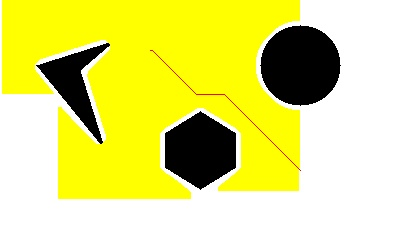
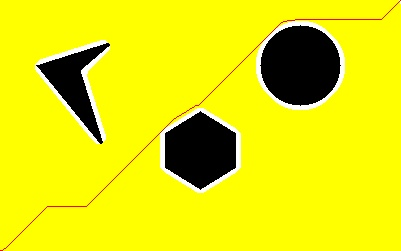
final upload

diff --git a/dijkstra.py b/dijkstra.py
@@ -1,6 +1,6 @@
 import numpy as np
 import cv2
-import glob
+import math
 
 class Node:
   def __init__(self,data,parent,cost):
@@ -14,7 +14,7 @@ def get_line(A,B):
   c = y1 - m * x1
   return m,c
 
-def check_for_obstacle_1(points,point):
+def check_for_obstacle_1(points,point): ## returns if the coordinate is within quadrilateral obstacle
   count = 0
   i = 0
   x,y = point[0],point[1]
@@ -53,7 +53,7 @@ def check_for_obstacle_1(points,point):
   else:
     return True
 
-def check_for_obstacle_2(points,point):
+def check_for_obstacle_2(points,point):   ## returns if the coordinate is within hexagonal obstacle
   count = 0
   x,y = point[0],point[1]
   # m1,c1 = get_line(points[0],points[1]) // This doesn't work since division by zero is impossible.
@@ -79,7 +79,7 @@ def check_for_obstacle_2(points,point):
   else:
     return None
 
-def check_for_obstacle_3(point):
+def check_for_obstacle_3(point):    ## returns if the coordinate is within circular obstacle
   x,y = point[0],point[1]
   a = ((x-300)**2) + ((y-185)**2) - (40*40)
   if (a <= 0):
@@ -102,6 +102,8 @@ def get_obstacle_coord(obstacle_1,obstacle_2):
 
   return obs_coord_list,mat_img,mat
 
+  ############## Action Sets ##################
+
 def action_Up(curr_node,matrix):
 
   x,y = curr_node.Node_state[0],curr_node.Node_state[1]
@@ -114,7 +116,7 @@ def action_Up(curr_node,matrix):
       newNode = Node([x_new,y_new],curr_node,cost)
       return newNode
     else:
-      print("Obstacle found at: ",x_new,y_new)
+      # print("Obstacle found at: ",x_new,y_new)
       return False
   else:
     return False
@@ -130,7 +132,7 @@ def action_Down(curr_node,matrix):
       newNode = Node([x_new,y_new],curr_node,cost)
       return newNode
     else:
-      print("Obstacle found at: ",x_new,y_new)
+      # print("Obstacle found at: ",x_new,y_new)
       return False
   else:
     return False
@@ -146,7 +148,7 @@ def action_Right(curr_node,matrix):
       newNode = Node([x_new,y_new],curr_node,cost)
       return newNode
     else:
-      print("Obstacle found at: ",x_new,y_new)
+      # print("Obstacle found at: ",x_new,y_new)
       return False
   else:
     return False
@@ -162,10 +164,11 @@ def action_Left(curr_node,matrix):
       newNode = Node([x_new,y_new],curr_node,cost)
       return newNode
     else:
-      print("Obstacle found at: ",x_new,y_new)
+      # print("Obstacle found at: ",x_new,y_new)
       return False
   else:
     return False
+
 def action_Up_Right(curr_node,matrix):
 
   x,y = curr_node.Node_state[0],curr_node.Node_state[1]
@@ -177,7 +180,7 @@ def action_Up_Right(curr_node,matrix):
       newNode = Node([x_new,y_new],curr_node,cost)
       return newNode
     else:
-      print("Obstacle found at: ",x_new,y_new)
+      # print("Obstacle found at: ",x_new,y_new)
       return False
   else:
     return False
@@ -193,7 +196,7 @@ def action_Up_Left(curr_node,matrix):
       newNode = Node([x_new,y_new],curr_node,cost)
       return newNode
     else:
-      print("Obstacle found at: ",x_new,y_new)
+      # print("Obstacle found at: ",x_new,y_new)
       return False
   else:
     return False
@@ -209,7 +212,7 @@ def action_Down_Right(curr_node,matrix):
       newNode = Node([x_new,y_new],curr_node,cost)
       return newNode
     else:
-      print("Obstacle found at: ",x_new,y_new)
+      # print("Obstacle found at: ",x_new,y_new)
       return False
   else:
     return False
@@ -225,12 +228,13 @@ def action_Down_Left(curr_node,matrix):
       newNode = Node([x_new,y_new],curr_node,cost)
       return newNode
     else:
-      print("Obstacle found at: ",x_new,y_new)
+      # print("Obstacle found at: ",x_new,y_new)
       return False
   else:
     return False
 
 def action(i,curr_node,matrix):
+  
   if i == 5:
     New_Node = action_Up(curr_node,matrix)
     if New_Node:
@@ -280,8 +284,7 @@ def action(i,curr_node,matrix):
     else:
       return False
 
-
-def generate_path(node,matrix):
+def generate_path(node,matrix):     ## Bactracking function and generates the path
   path = []
   path = [node.Node_state]
   while node.Node_parent_node != None:
@@ -295,12 +298,12 @@ def generate_path(node,matrix):
   img = cv2.convertScaleAbs(img, alpha=(255.0))
   cv2.imshow("path",img)
   cv2.imwrite("./docs/path.jpg",img)
-  cv2.waitKey(1000)
+  cv2.waitKey(5000)
   cv2.destroyAllWindows()
   return img
 
-
-def dijkstra(initial,goal,matrix,matrix_image):
+def dijkstra(initial,goal,matrix,matrix_image):   ## Dijksrta Algorithm
+  
   i1 = 0
 
   mat_img = matrix_image.copy()
@@ -319,6 +322,7 @@ def dijkstra(initial,goal,matrix,matrix_image):
 
     curr_node = queue.pop(k)
     state.pop(k)
+    cost.pop(k)
     visited.append(curr_node.Node_state)
     if curr_node.Node_state != goal:
       for i in range(1,9):
@@ -326,6 +330,8 @@ def dijkstra(initial,goal,matrix,matrix_image):
         if new_node != False:
           if new_node.Node_state == goal:
             print("Goal Reached. Cost to reach :",new_node.Node_cost_to_reach)
+            print("Saving Frames...")
+
             for element in visited:
               x,y = element[0],element[1]
               mat_img[x][y] = (0,255,255)
@@ -341,14 +347,16 @@ def dijkstra(initial,goal,matrix,matrix_image):
             cv2.waitKey(1000)
             cv2.destroyAllWindows()
 
+            print("Generating Video...")
+
             last_image = generate_path(new_node,mat_img)
             resized_image = cv2.resize(last_image,size)
-            for j in range (0,120):
+            for j in range (0,1200):
               cv2.imwrite("./docs/Images/"+str(int(i1+j))+".jpg",resized_image)
 
             explore = cv2.VideoWriter("./docs/exploration.mp4",cv2.VideoWriter_fourcc(*'mp4v'),600,size)
             
-            for k in range (0,i1+120):
+            for k in range (0,i1+1200):
               imgaer = cv2.imread("./docs/Images/"+str(k)+".jpg")
               explore.write(imgaer)
             explore.release()
@@ -364,11 +372,11 @@ def dijkstra(initial,goal,matrix,matrix_image):
             else:
               queue.append(new_node)
               state.append(new_node.Node_state)
+              cost.append(new_node.Node_cost_to_reach)
+              
               print ("Current Point : ",new_node.Node_state)
 
-
 if __name__ == '__main__':
-
 
   start_x = int(input("Enter start position X between (0,400): "))
   start_y = int(input("Enter start position Y between (0,250): "))
@@ -386,10 +394,10 @@ if __name__ == '__main__':
   image = cv2.convertScaleAbs(image, alpha=(255.0))
   cv2.imwrite("./docs/obstacle_map.jpg",image)
   cv2.imshow('Obstacle Map',image)
-  cv2.waitKey(1000)
+  cv2.waitKey(5000)
   cv2.destroyAllWindows()
 
   if goal not in obstacles:
     dijkstra(start,goal,matrix,matrix_image)
   else:
-    print("Goal cannot be reached")
+    print("Goal in obstacles and cannot be reached")
